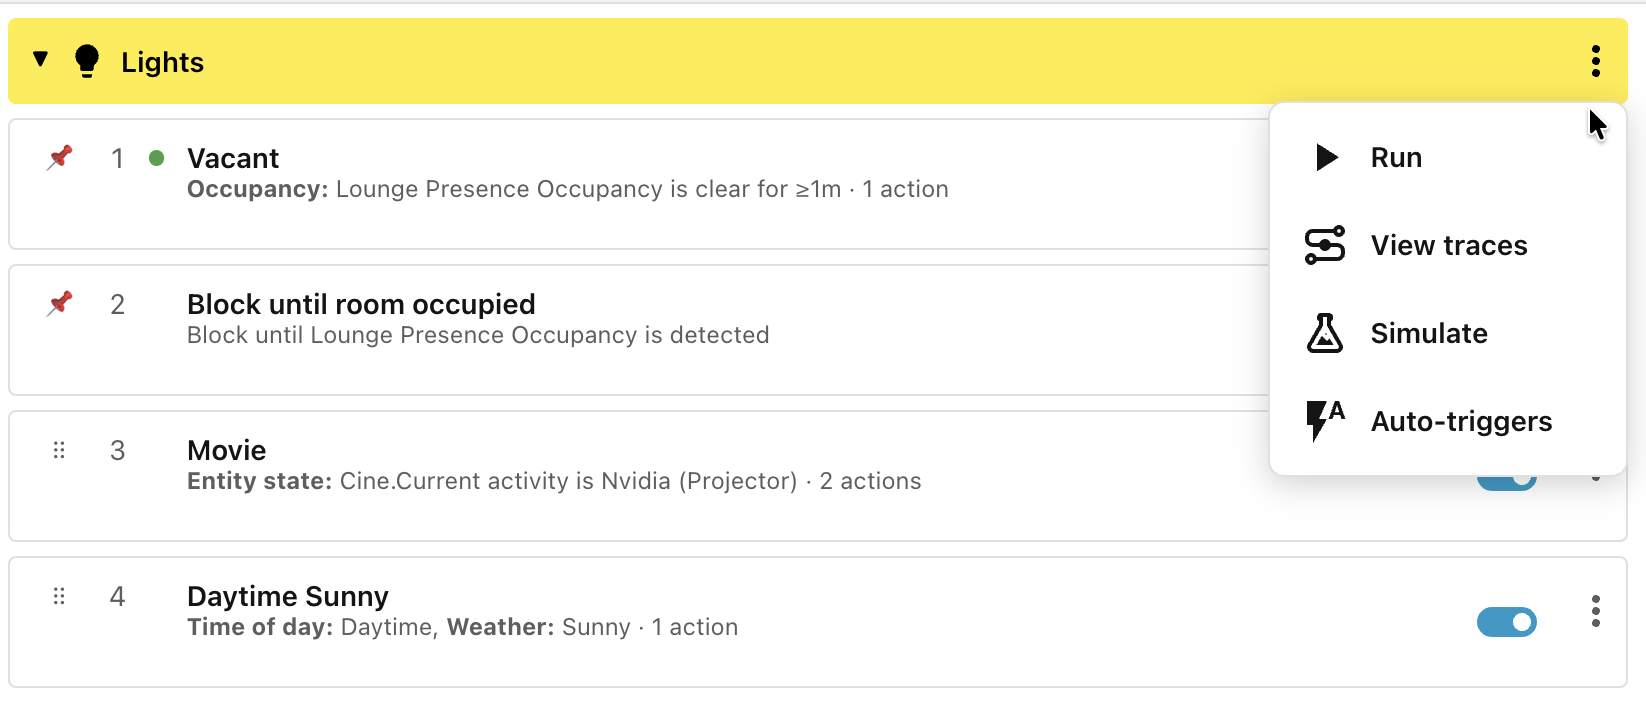
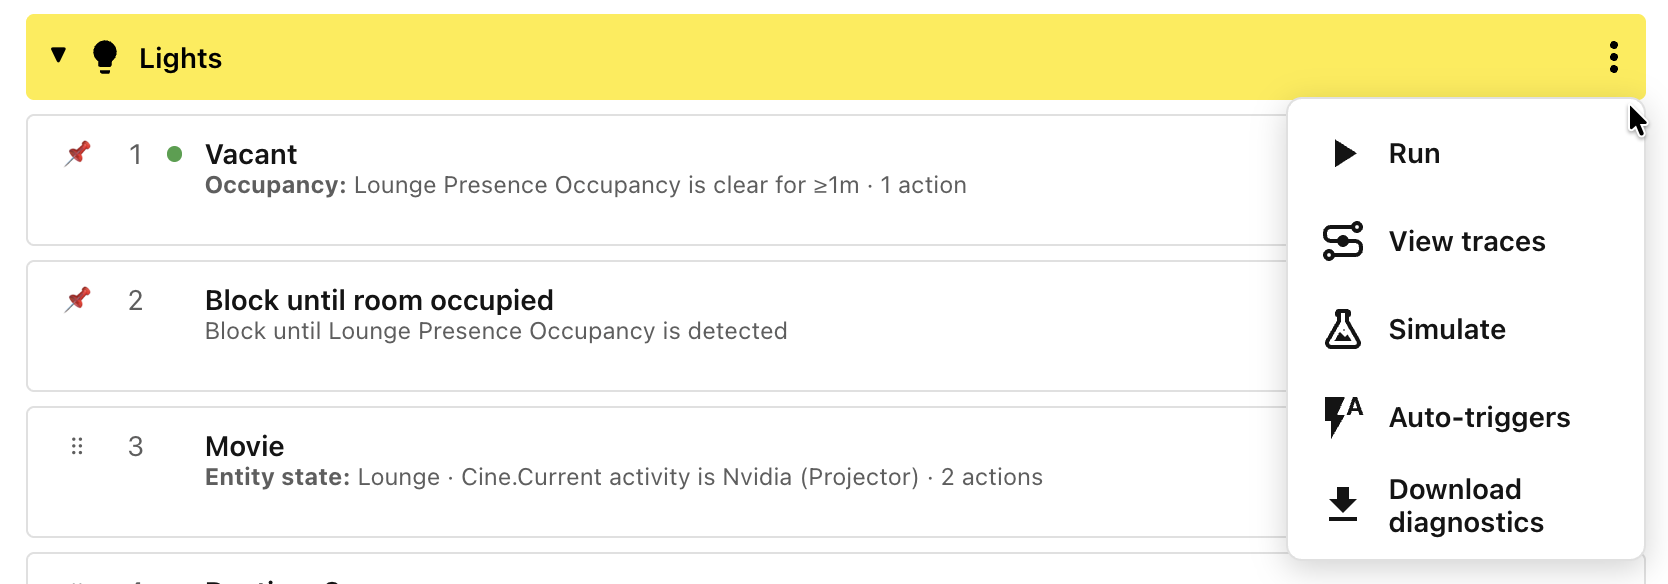
docs: document Download diagnostics in the category menu, tighten debug-log headings
Update the debugging guide and issue-reporting page for the moved Download
diagnostics action (now in the category ⋮ menu), refresh the step-9
screenshots, and shorten two long debug-logging subsection headings that
folded awkwardly in the docs nav.

diff --git a/docs/reporting-an-issue.md b/docs/reporting-an-issue.md
@@ -12,7 +12,7 @@ A diagnostics file is a JSON snapshot of your configuration and recent traces.
 There are two places to get one, depending on how much you want to share:
 
 - **Scoped to one category** — in the Ambience panel, open a category's
-    **Traces** viewer and click **Download diagnostics**. The file covers just
+    **⋮** menu and choose **Download diagnostics**. The file covers just
     that (scope, category): its configuration, the relevant global context
     (categories and conditions), and its recent traces. Best when you already
     know which scene group is misbehaving.
@@ -42,7 +42,7 @@ evaluations. This stream is kept at `warning` by default, even when the parent
 logger is at `debug`, so it does not flood the log. You have to raise it
 explicitly.
 
-### From the integration page (the quick way)
+### From the integration page
 
 Home Assistant has built-in debug logging for any integration:
 
@@ -58,7 +58,7 @@ This raises the `custom_components.ambience` logger, so it captures the
 quiet `…trace.noop` **everything** stream at `warning` by design — if you need
 that one too, use the action below.
 
-### With an action (for the everything stream)
+### With an action
 
 For finer control — in particular to raise the **everything** stream — use
 **Developer Tools → Actions**. No restart needed.

diff --git a/docs/getting-started/step-9-debugging-scenes.md b/docs/getting-started/step-9-debugging-scenes.md
@@ -121,6 +121,15 @@ run. It describes what *would* happen, not what actually happened in your home
 
 ![Simulate tool with trace details.](../images/getting-started/step-9/simulate_result.png "Simulate tool with trace details.")
 
+## Download diagnostics
+
+The **Download diagnostics** option saves a JSON snapshot scoped to that one
+(scope, category): its configuration, the global context needed to read it
+(categories and conditions), and its recent traces. It is the quickest thing to
+attach to a bug report when you already know which scene group is misbehaving.
+See [Reporting an issue](../reporting-an-issue.md#downloading-diagnostics) for
+what the file contains and for the whole-integration alternative.
+
 ______________________________________________________________________
 
 If a problem still has you stuck, see
